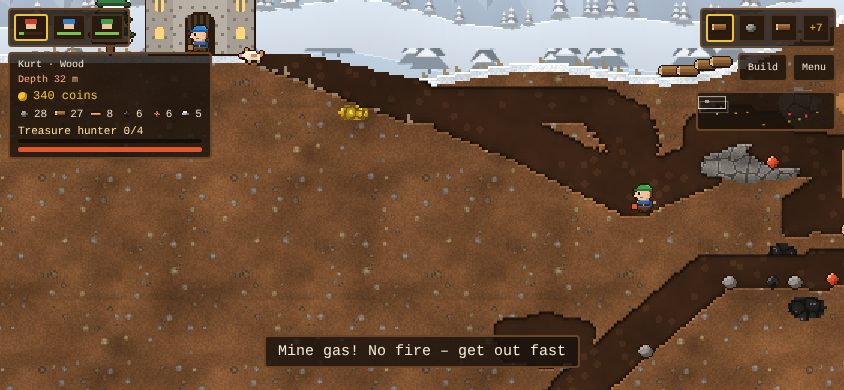
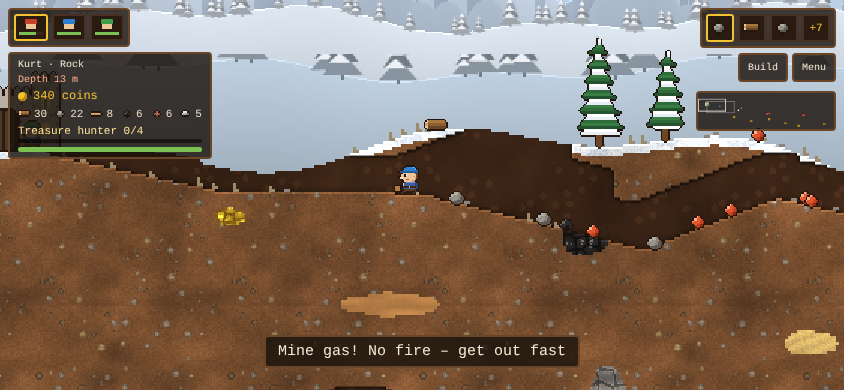
v1.1.0: Graben nach unten flacher (~12°), gräbt sobald eine Kante zu hoch zum Hochsteigen ist (kein Hängenbleiben an Absätzen), schräg hoch auch an Wänden; Klettern und Hängen abschaltbar (Standard aus); Versionsnummer in Lobby und Menü
Claude-Session: https://claude.ai/code/session_014vMsHv9VxQKzfCLXg73oLt

diff --git a/src/clonk.js b/src/clonk.js
@@ -92,7 +92,7 @@ const digAtPx = (x, y) => diggable(mat[Math.floor(y) * W + Math.floor(x)]);
 // the dig direction. Clearing the whole body outline means no corner of earth is left
 // that could catch head or feet. slope = height change per pixel forward (same up and down).
 // effective steepness ends up the same both ways (gravity pulls down, stepping up is slower)
-const SLOPE_DOWN = 0.28,
+const SLOPE_DOWN = 0.12,
   SLOPE_UP = 0.38;
 function strokeCells(c, dir, slope, fn, ahead = 4) {
   const ox = c.x + dir * ahead,
@@ -149,17 +149,19 @@ function wantsDig(c, I) {
     for (let dy = 1; dy <= 4 && !ceiling; dy++)
       for (const dx of [1, 3, 5]) if (digAtPx(c.x + dx, c.y - dy)) ceiling = true;
     // keep digging upwards once started, and dig instead of climbing up an earth wall
-    const go = ceiling || c.digging || (c.climb && Math.abs(I.ax) > 0.3);
+    const wall = Math.abs(I.ax) > 0.3 && !free(c.x + dir * 0.7, c.y, 6, 10) && !free(c.x + dir * 0.7, c.y - 3, 6, 10);
+    const go = ceiling || c.digging || wall || (c.climb && Math.abs(I.ax) > 0.3);
     if (go && (hold || c.digging) && digZone(c, dir, -SLOPE_UP, 4) >= (c.digging ? 1 : 3)) return 'up';
     // no way up here: pushing up and sideways into a wall still digs sideways
-    if (Math.abs(I.ax) < 0.5) return false;
+    if (Math.abs(I.ax) < 0.35) return false;
   }
   // keep going while the last stroke still finds earth (no flicker on/off)
   const need = c.digging ? 1 : 3;
   if (I.ay > 0.4) return grounded && !c.hangle && digZone(c, dir, SLOPE_DOWN, 99) >= need;
-  if (Math.abs(I.ax) > 0.5 && hold) {
-    // a real wall (not a small step the Wühler simply walks up): earth above the feet
-    return digZone(c, dir, 0, 6) >= (c.digging ? 2 : 8) ? 'side' : false;
+  if (Math.abs(I.ax) > 0.35 && hold) {
+    // dig when the way is blocked (a wall or a ledge too high to step onto), or keep going
+    const blocked = !free(c.x + dir * 0.7, c.y, 6, 10) && !free(c.x + dir * 0.7, c.y - 3, 6, 10);
+    if (blocked || c.digging) return digZone(c, dir, 0, 9) >= 2 ? 'side' : false;
   }
   return false;
 }
@@ -463,7 +465,8 @@ function updClonk(c, I) {
       hurt(c, d);
       if (fallV > 4.4) startTumble(c, c.vx, -0.8);
       else sfx('thud', c.x, c.y);
-    } else if (fallV < -1 && !inLiq && !boxFree(c.x, c.y - 1, 6, 1)) {
+    } else if (G.climbOn && fallV < -1 && !inLiq && !boxFree(c.x, c.y - 1, 6, 1)) {
+      // hanging from ceilings and climbing walls are optional (off by default)
       c.hangle = true;
       c.vx = c.vy = 0;
       return;
@@ -471,7 +474,7 @@ function updClonk(c, I) {
     c.vy = 0;
   }
   if (bx) {
-    if (!inLiq && Math.abs(I.ax) > 0.3) {
+    if (G.climbOn && !inLiq && Math.abs(I.ax) > 0.3) {
       c.climb = true;
       c.face = Math.sign(I.ax);
     }

diff --git a/src/main.js b/src/main.js
@@ -90,6 +90,8 @@ function startGame(withTutorial = false) {
   if (G.AC && G.AC.state === 'suspended') G.AC.resume();
   crew[0] && Object.assign(crew[0], { hat: P.hat, cap: P.cap });
   G.autoDig = P.autodig !== false;
+  G.climbOn = !!P.climbing;
+  if (!G.climbOn) for (const c of crew) c.climb = c.hangle = false;
   const res = P.gfx === 'low' || new URLSearchParams(location.search).get('res') === '1' ? 1 : 2;
   if (res !== G.res) {
     G.res = res;
@@ -149,7 +151,7 @@ $('miniThumb').addEventListener('click', toggleMap);
 function openMenu() {
   if (G.state !== 'play') return;
   const p = openPanel('Menü');
-  const l = sec(p, 'Spiel');
+  const l = sec(p, tr('Spiel') + ' · v' + __APP_VERSION__);
   const item = (title, sub, fn) => opt(l, { title: tr(title), sub: sub ? tr(sub) : '', short: true, onClick: fn });
   item('Karte', 'Die ganze Welt', () => {
     closePanel();
@@ -178,6 +180,13 @@ function openMenu() {
     P.gfx = G.res === 2 ? 'high' : 'low';
     saveProfile();
     resize();
+    openMenu();
+  });
+  item(G.climbOn ? 'Klettern an' : 'Klettern aus', 'An Wänden hochklettern und an Decken hängen', () => {
+    P.climbing = !G.climbOn;
+    G.climbOn = P.climbing;
+    if (!G.climbOn) for (const c of crew) c.climb = c.hangle = false;
+    saveProfile();
     openMenu();
   });
   item('Lobby', 'Spiel speichern und zur Lobby', () => $('newBtn').click());

diff --git a/src/lobby.js b/src/lobby.js
@@ -12,6 +12,7 @@ import { G } from './state.js';
 import { $, closePanel, opt, openPanel, panelEl, sec, toast } from './ui.js';
 
 const el = $('lobby');
+$('lbVersion').textContent = 'v' + __APP_VERSION__;
 const cv = $('lbCv'),
   g = cv.getContext('2d');
 const MODES = ['random', 'meadow', 'desert', 'winter'];
@@ -284,6 +285,16 @@ function openOptions() {
     onClick: () => {
       P.autodig = P.autodig === false;
       G.autoDig = P.autodig;
+      saveProfile();
+      openOptions();
+    },
+  });
+  opt(l, {
+    title: tr(P.climbing ? 'Klettern an' : 'Klettern aus'),
+    sub: tr('An Wänden hochklettern und an Decken hängen'),
+    onClick: () => {
+      P.climbing = !P.climbing;
+      G.climbOn = P.climbing;
       saveProfile();
       openOptions();
     },

diff --git a/src/debug.js b/src/debug.js
@@ -7,7 +7,7 @@ import { openBase } from './ui.js';
 import { saveGame, loadGame, hasSave } from './save.js';
 import { lightning } from './weather.js';
 import { step } from './main.js';
-import { edge, inp, keys } from './input.js';
+import { edge, inp, joy, keys } from './input.js';
 import { startCaveIn, onDig } from './hazards.js';
 import { chestNear, openChest } from './treasure.js';
 import { setGoal } from './tapgo.js';
@@ -79,6 +79,7 @@ window.__ww = {
   terrOK,
   inp,
   keys,
+  joy,
   edge,
   G,
   startCaveIn,

diff --git a/vite.config.js b/vite.config.js
@@ -1,8 +1,13 @@
 import { defineConfig } from 'vite';
 import { VitePWA } from 'vite-plugin-pwa';
+import { readFileSync } from 'node:fs';
+
+// version shown in the lobby and menu: bump it in package.json with every change
+const VERSION = JSON.parse(readFileSync(new URL('./package.json', import.meta.url))).version;
 
 export default defineConfig({
   base: './',
+  define: { __APP_VERSION__: JSON.stringify(VERSION) },
   plugins: [
     VitePWA({
       injectRegister: null,

diff --git a/index.html b/index.html
@@ -122,6 +122,7 @@
             <div class="lb-xp"><i id="lbXp"></i><span id="lbXpTxt"></span></div>
           </div>
           <div class="lb-title" id="lbTitle">Flintworks</div>
+          <div class="lb-version" id="lbVersion"></div>
           <div class="lb-chips">
             <span class="chip"><i class="ico" data-ico="trophy"></i><b id="lbTro">0</b></span>
             <button class="chip lb-opt" id="lbOpt" aria-label="Optionen" data-i18n-aria="Optionen">

diff --git a/src/i18n.js b/src/i18n.js
@@ -2,6 +2,9 @@
 // Placeholders: {name} is filled from the params object.
 const EN = {
   // lobby and profile
+  'Klettern an': 'Climbing on',
+  'Klettern aus': 'Climbing off',
+  'An Wänden hochklettern und an Decken hängen': 'Climb up walls and hang from ceilings',
   'Grafik: fein': 'Graphics: detailed',
   'Grafik: schnell': 'Graphics: fast',
   'Schnell läuft flüssiger auf älteren Handys': 'Fast runs smoother on older phones',

diff --git a/src/lobby.css b/src/lobby.css
@@ -512,3 +512,13 @@
   overflow: hidden;
   text-overflow: ellipsis;
 }
+
+.lb-version {
+  position: absolute !important;
+  right: 14px;
+  bottom: 4px;
+  font-family: var(--font-ui);
+  font-size: 10px;
+  opacity: 0.6;
+  pointer-events: none;
+}
